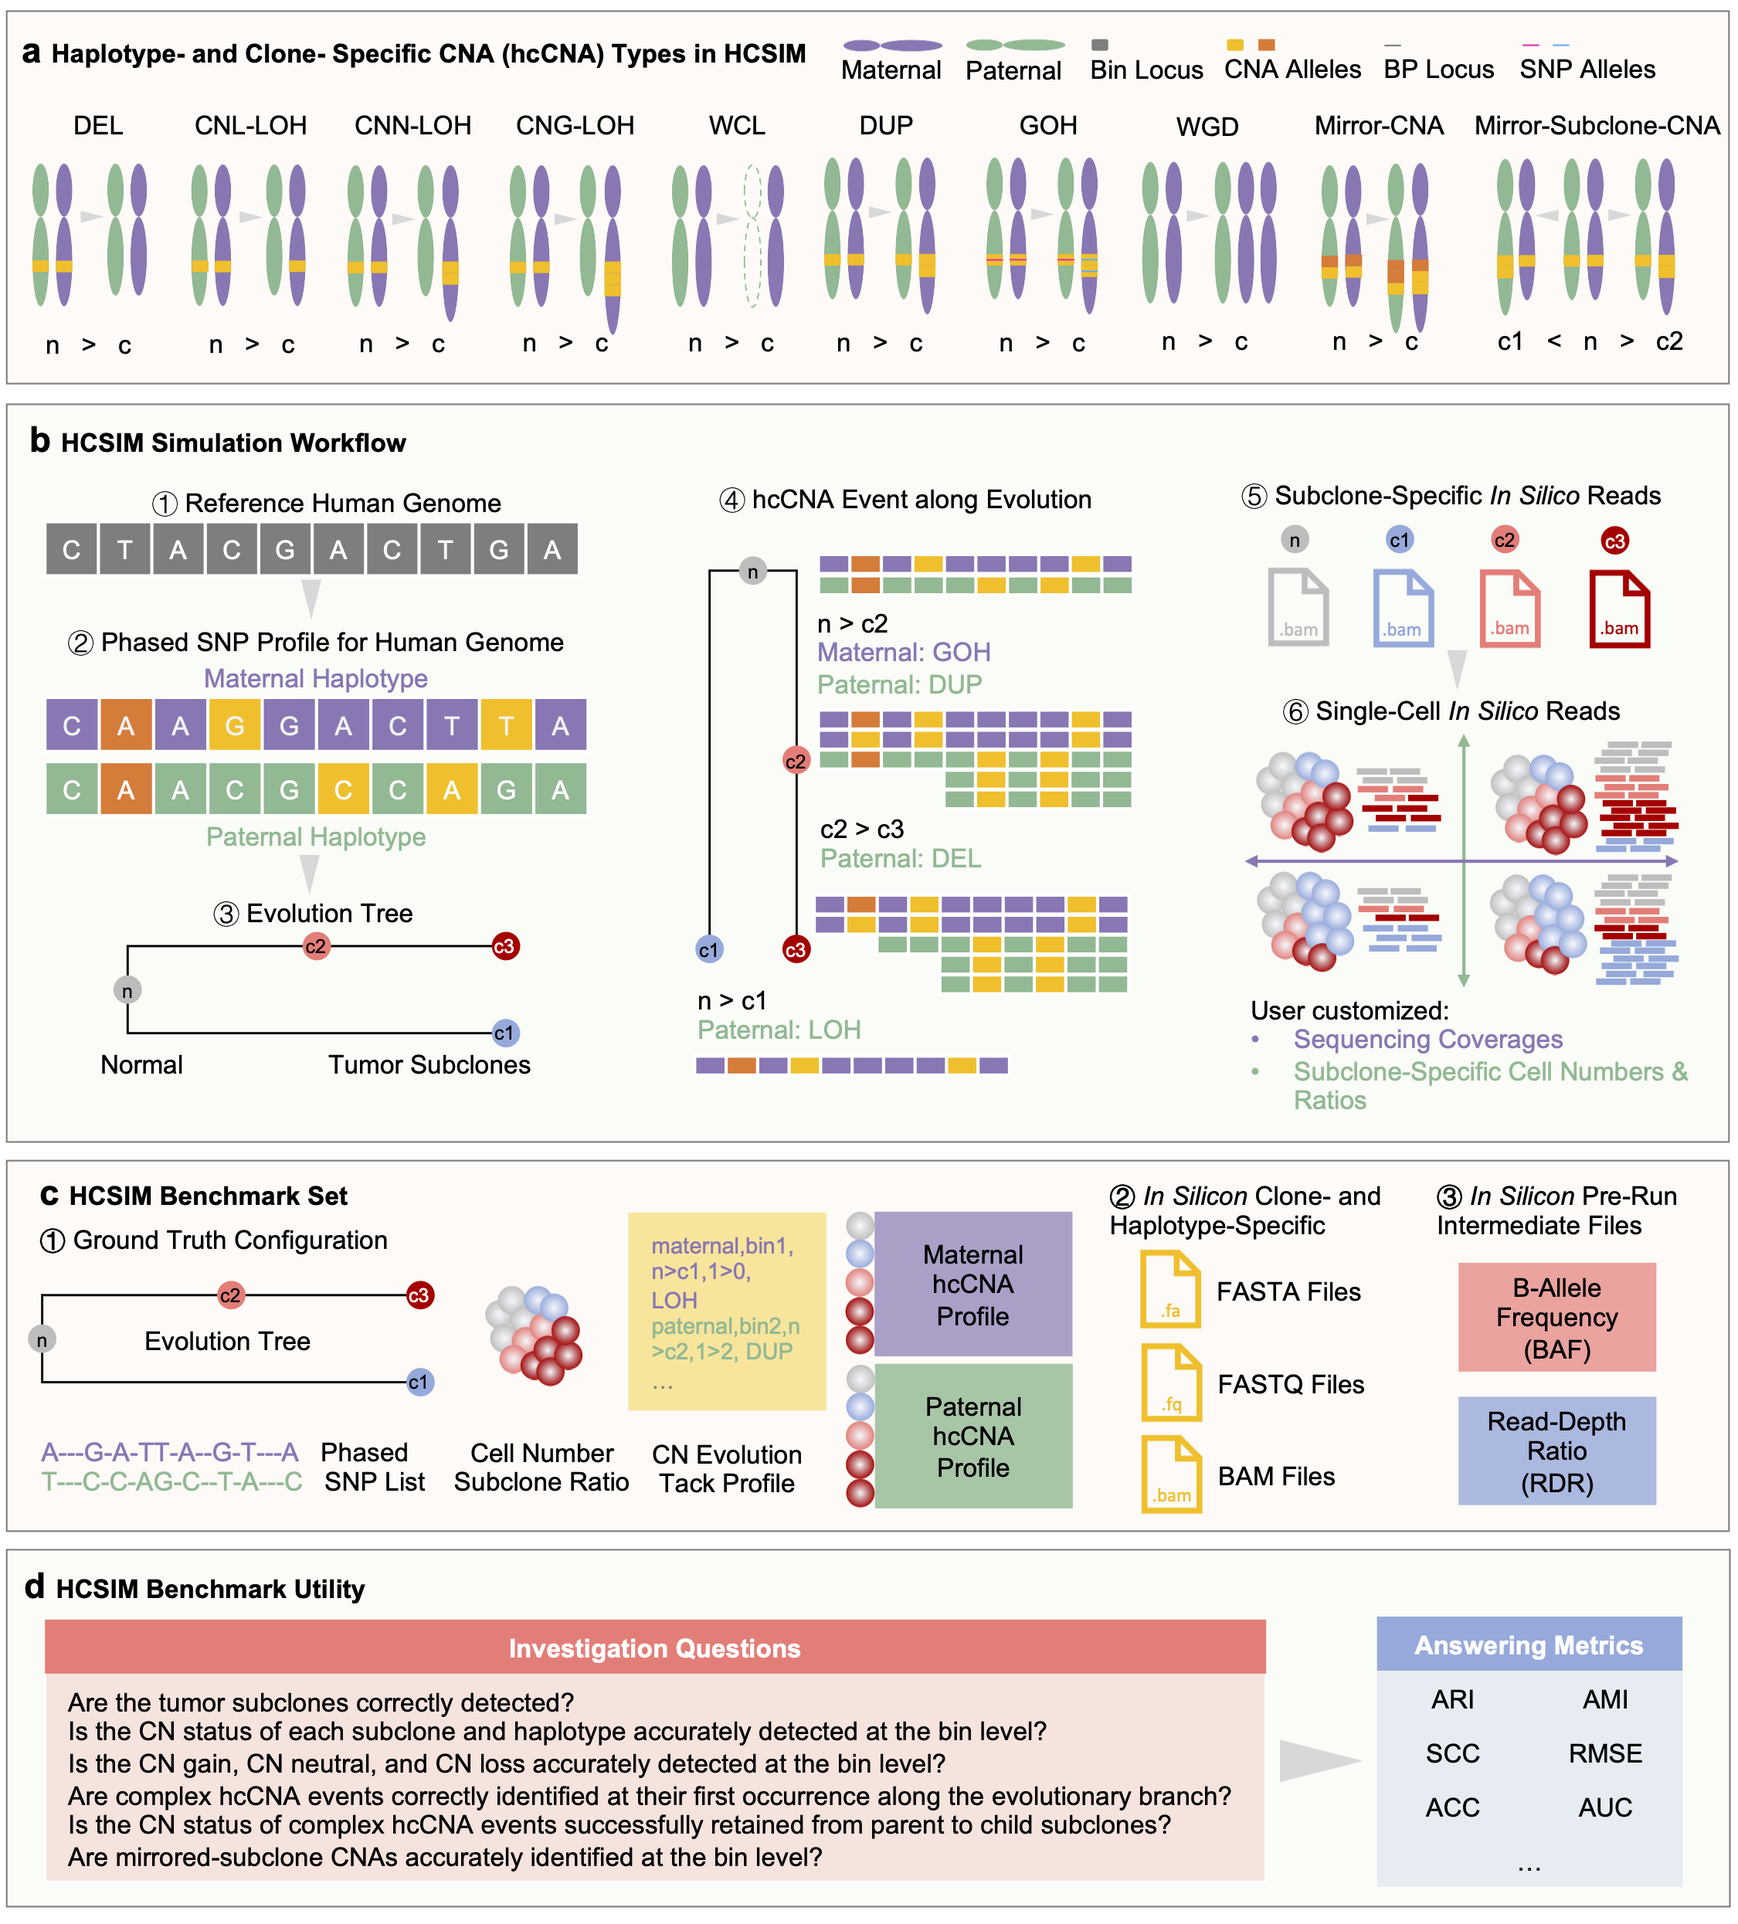
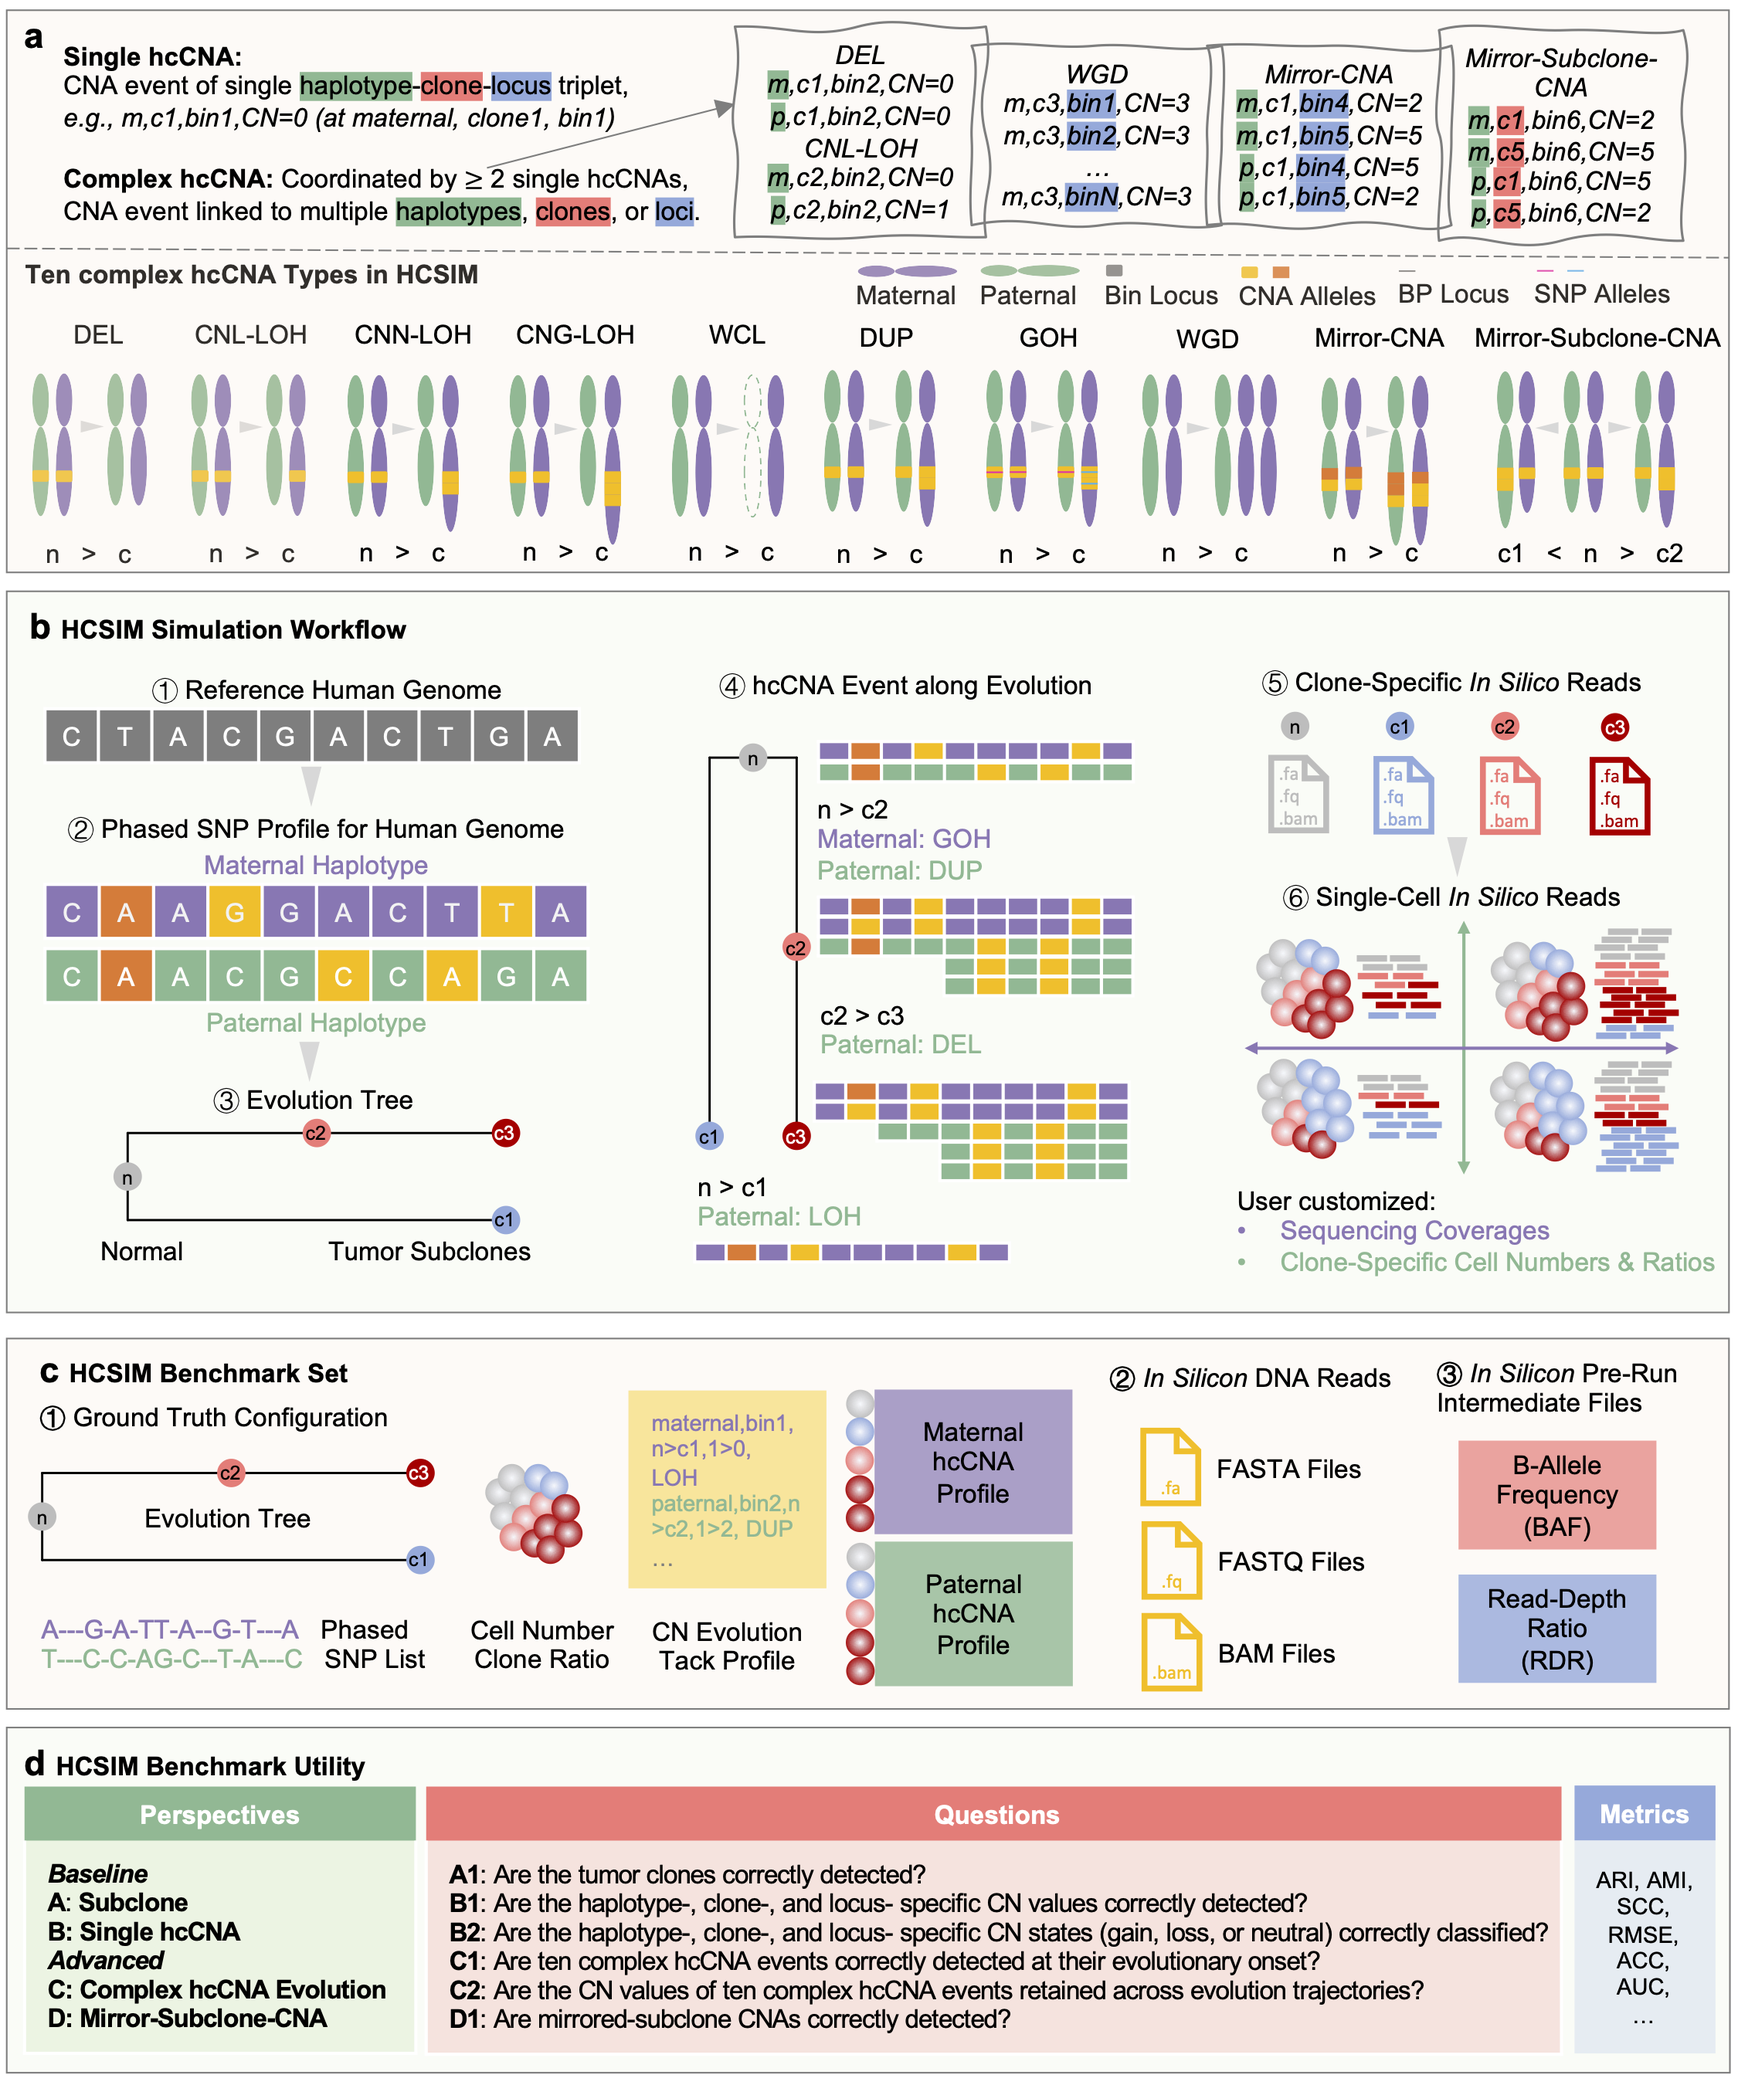
update overview figure and doc

diff --git a/docs/tutorials.md b/docs/tutorials.md
@@ -3,8 +3,6 @@
 ## Contents ##
 
 1. [Overview](#overview)
-    - [Implementation](#implement)
-    - [CNA Types](#cna-types)
 2. [Installation](#setup)
     - [Creation of python virtual env](#env)
     - [Standard installation](#standard)
@@ -23,14 +21,7 @@
 
 ![HCSIM Workflow](images/HCSIM_Figure1.png)
 
-<a name="implement"></a>
-### Implementation
-
-
-<a name="cna-types"></a>
-### CNA Types
-
-**HCSIM** have provided **nine types of hcCNAs**. The two basic hcCNA types are **deletion (DEL)**, indicating CN loss, and **duplication (DUP)**, indicating CN gain. Next, HCSIM summarizes complex hcCNA associated with **loss of heterozygosity (LOH)** with three types. LOH means the loss of one parental allele in a region, which removes genetic diversity. 1) **LOH with copy mumber loss (CNL-LOH)** means the remaining allele reduces the copy number below two, i.e. 1m0. 2) **CN-neutral LOH (CNN-LOH)** refers to a genetic state where one allele has a copy number of two, while the other allele has zero copies, resulting in a normal total copy number but the loss of heterozygosity, i.e., 2m0. 3) **CN-gain LOH (CNG-LOH)** refers to the remaning allele has a copy number larger than two, e.g., 3m0, 4m0. Besides, we have the **whole chromosome loss (WCL)**, the complete loss of an entire chromosome, resulting in substantial genetic material loss, which can drive tumor progression by affecting many genes at once. We summarize the complex hcCNA associated with CN gain with two types. 1) **Gain of heterozygosity (GOH)** is an increase in the number of different alleles due to extra copies, potentially facilitating adaptation by introducing new mutations. 2) **Whole genome doubling (WGD)** is a process where the entire genome is duplicated, leading to an overall increase in copy number that promotes further chromosomal instability. Lastly, we have complex hcCNA related to haplotype status, **mirror CNAs** involve reciprocal changes in copy numbers between homologous chromosomes, e.g., the copy numbers of two genomic regions (A and B) being CN(A)=1 and CN(B)=2 in one haplotype, while in another haplotype, the copy numbers of those two bins are reversed, with CN(A)=2 and CN(B)=1.
+HCSIM models ten distinct complex hcCNA events, which are classified into three categories based on their genomic impact: copy-number (CN) loss, CN gain, and mirror-like reciprocal events (above figure). CN-loss-associated events include deletions (DEL; i.e., 0|0), where both alleles are lost. Loss of heterozygosity (LOH), defined as the loss of one parental allele, can occur in three distinct forms: LOH with copy number loss (CNL-LOH), where the remaining allele has a copy number of one (i.e., 1|0); copy-number neutral LOH (CNN-LOH), where one allele is lost while the other remains with a copy number of two (i.e., 2|0), preserving a normal total copy number but still exhibiting LOH; and copy-number gain LOH (CNG-LOH), where the remaining allele has a copy number above two (e.g., 3|0, 4|0). Whole-chromosome loss (WCL) results in the complete loss of a chromosome, affecting multiple loci simultaneously.CN gain-related hcCNAs primarily fall into three categories: duplication (DUP) is the most common form of CN gain, where a genomic region is duplicated; gain of heterozygosity (GOH), an increase in different alleles due to extra copies, potentially facilitating adaptation by introducing new mutations; and whole genome doubling (WGD), where the entire genome is duplicated, promoting chromosomal instability and tumor evolution by affecting multiple loci simultaneously.Additionally, mirror-like hcCNAs involve reciprocal CN swaps, either across loci (mirror-CNAs) or across subclones (Mirror-Subclone-CNAs). An example of mirror-CNA is two genomic bins (A and B) may have CN(A)=1 and CN(B)=2 in one haplotype, while in the other haplotype, the copy numbers are reversed, with CN(A)=2 and CN(B)=1. Similarly, in Mirror-Subclone-CNAs, two tumor subclones (c1 and c2), the copy numbers of a genomic region may be CN(c1)=1 and CN(c2)=3 in one haplotype, while in the other haplotype, the values are reversed, with CN(c1)=3 and CN(c2)=1. These events collectively capture the diverse genetic alterations driving tumor evolution.
 
 <a name="setup"></a>
 ## Installation
